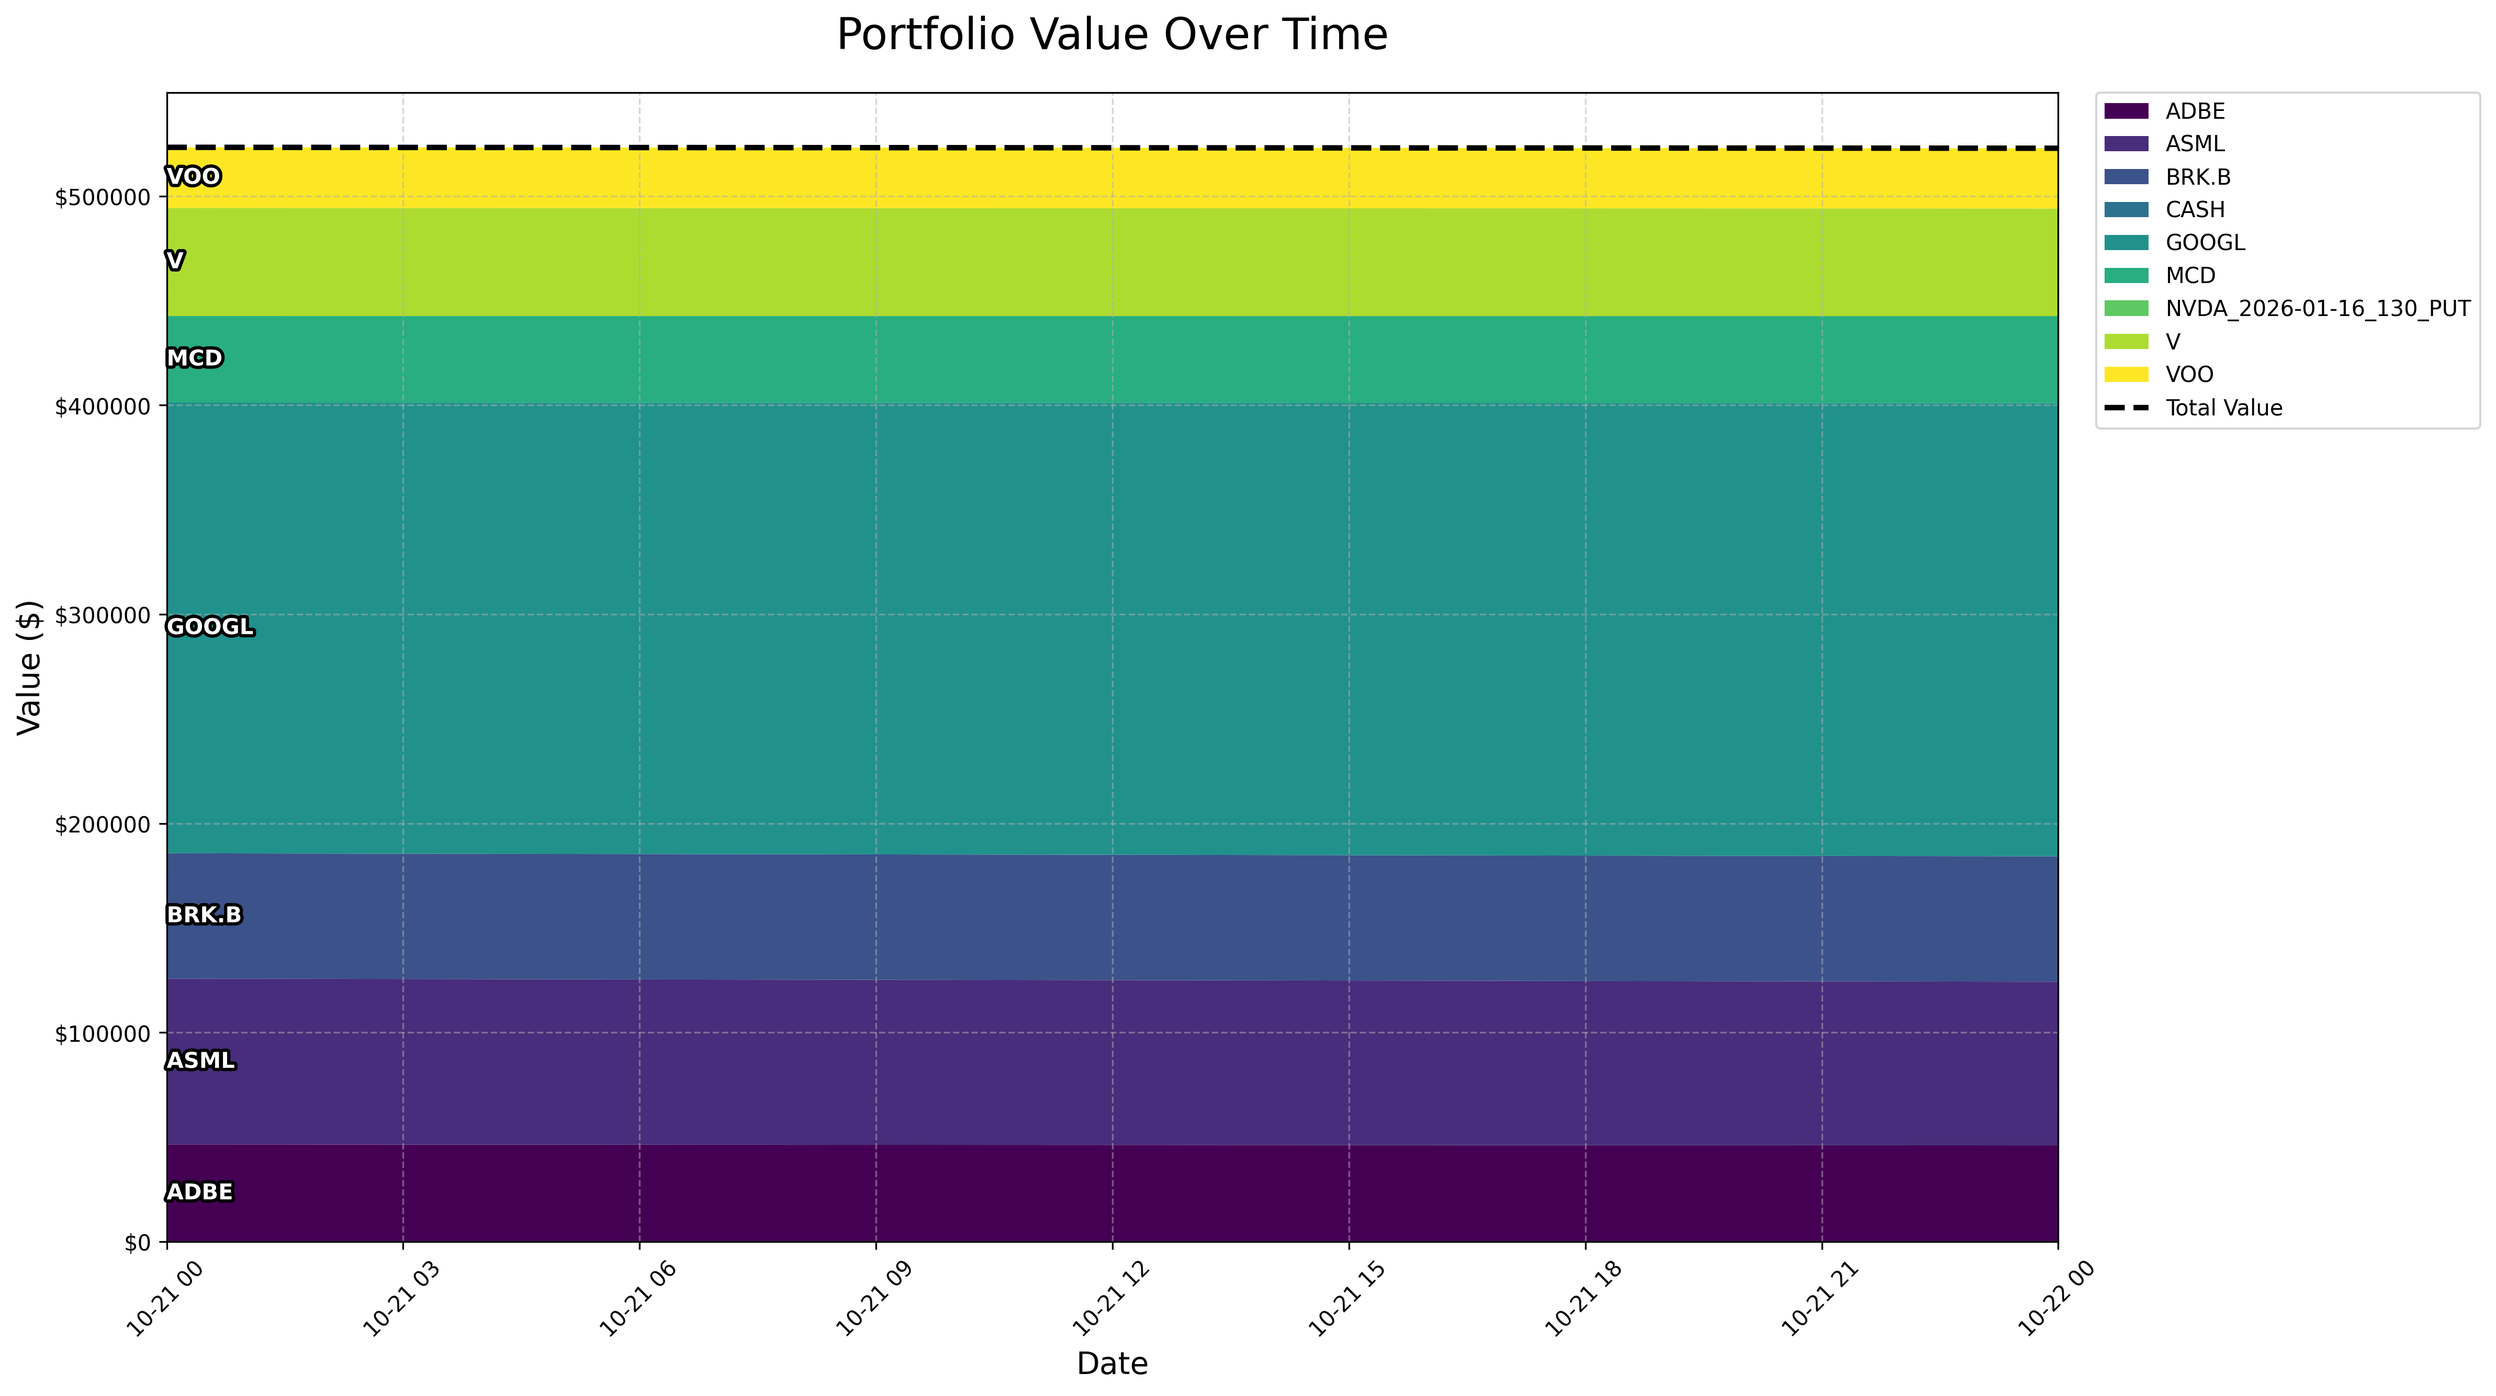
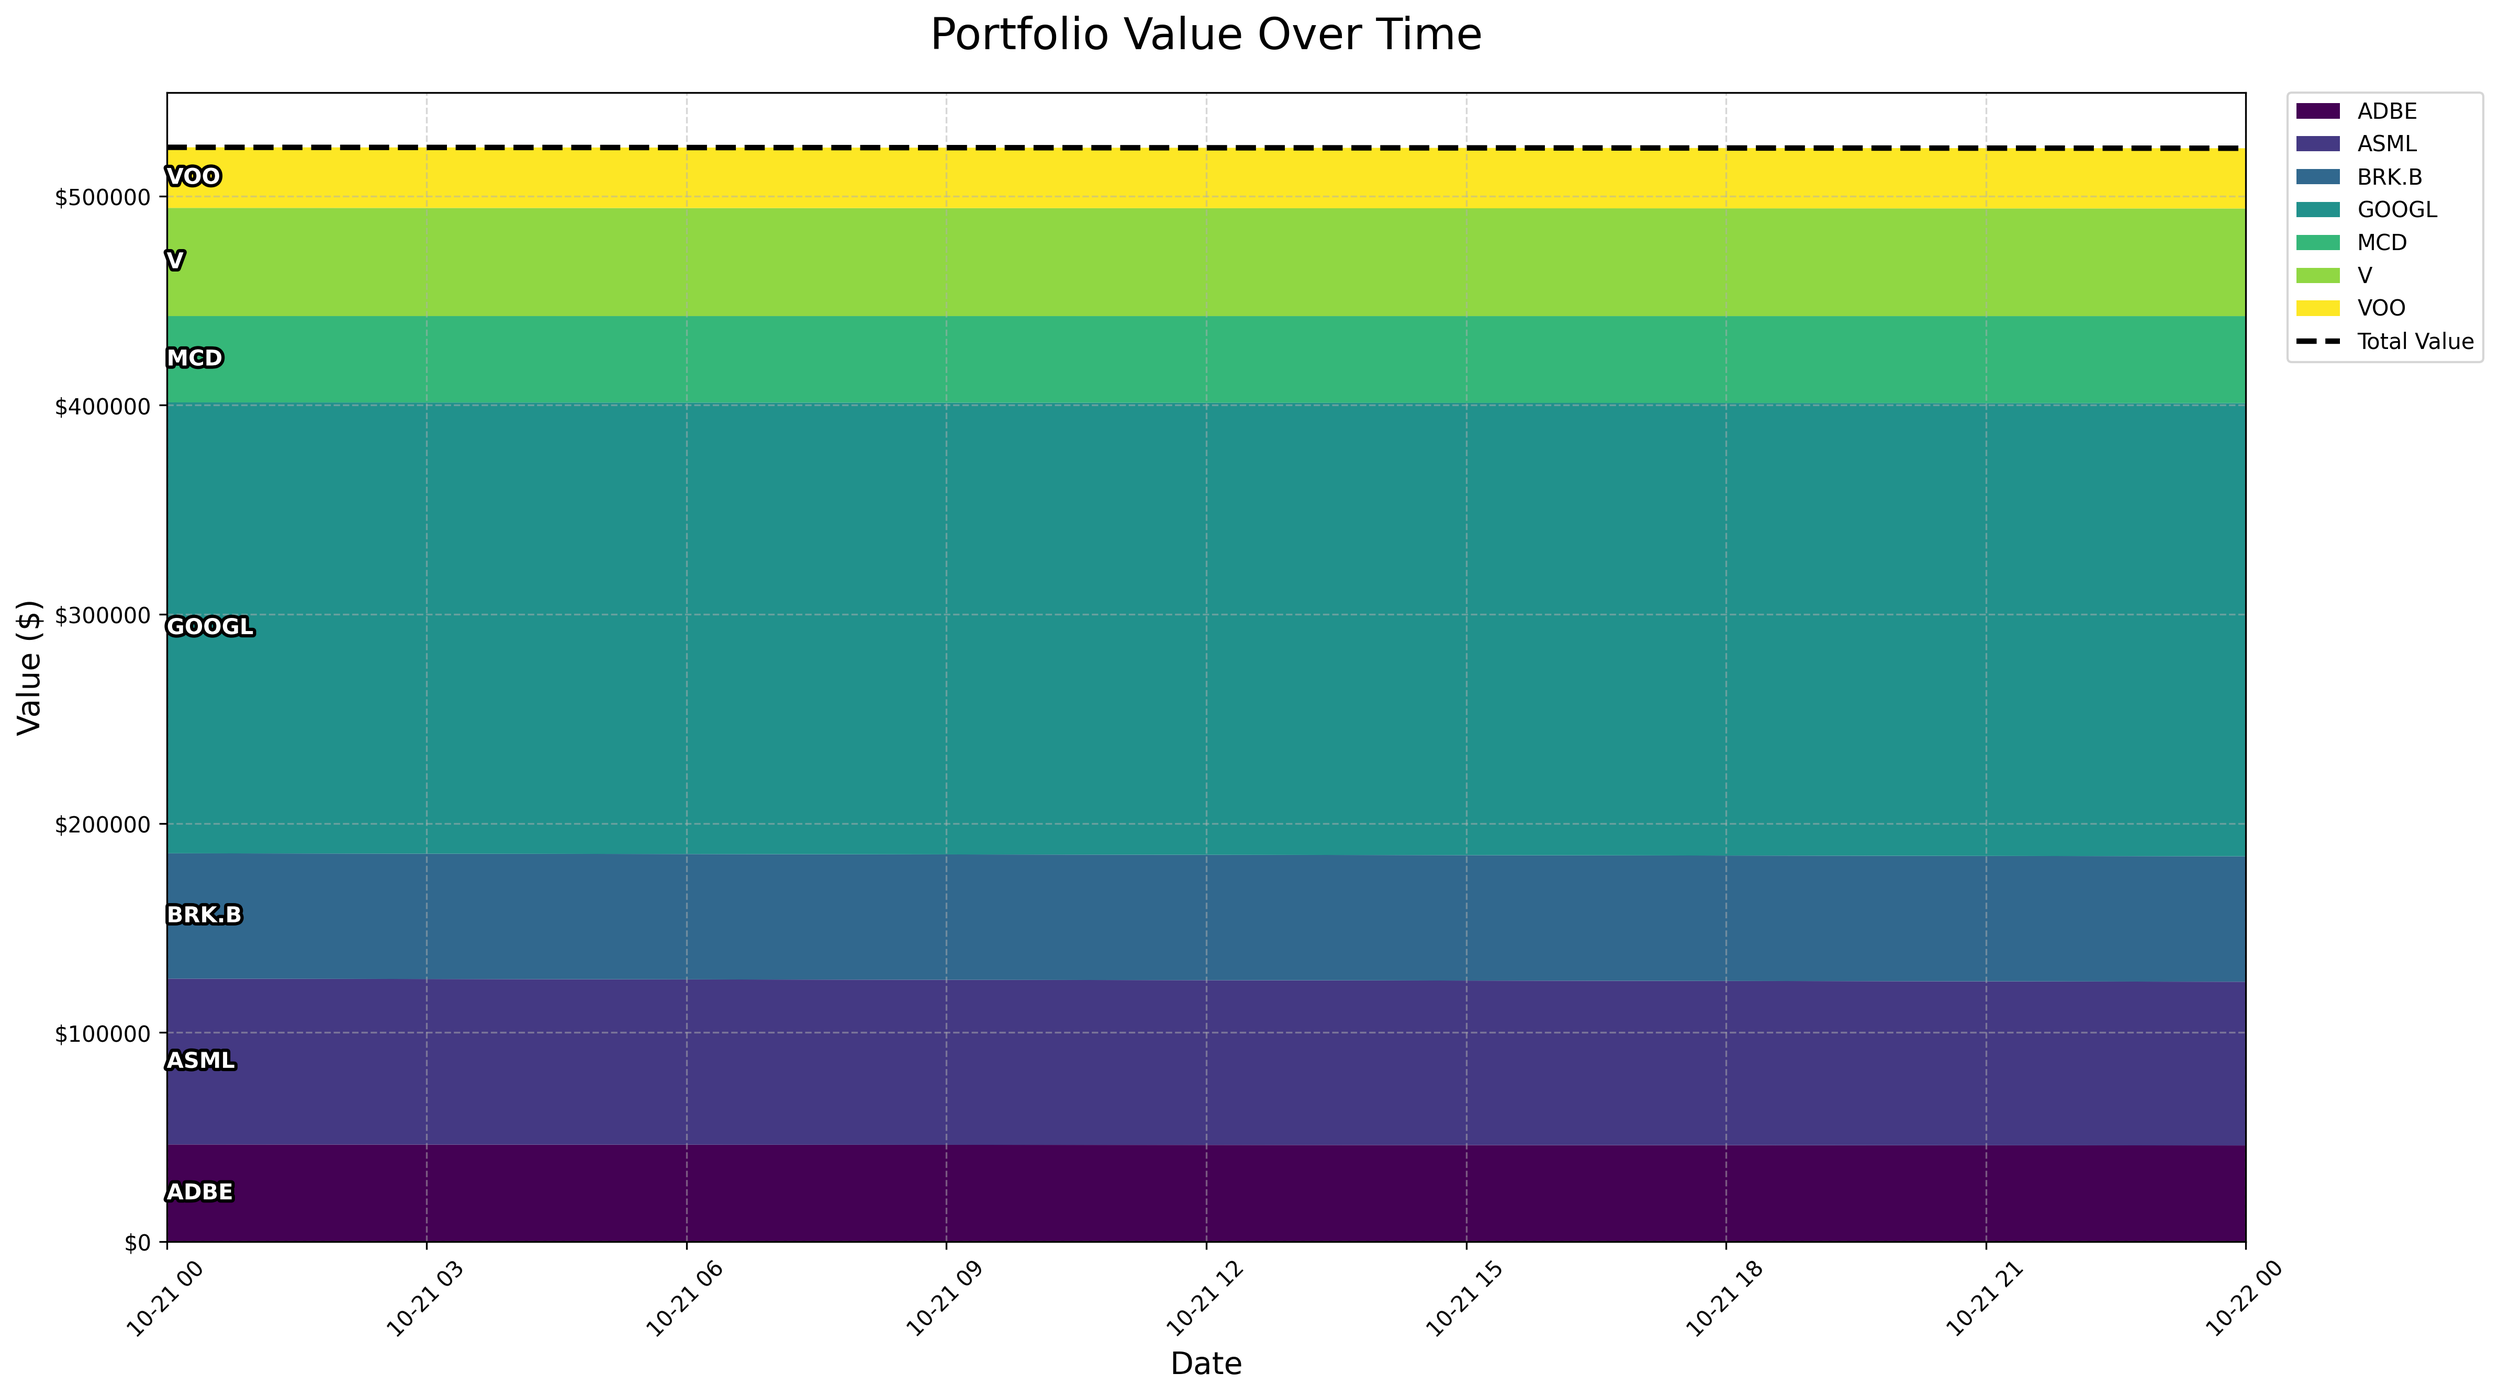
个股数据点tuple分隔符从,改成|，方便前端渲染

diff --git a/main.py b/main.py
@@ -198,7 +198,7 @@ def get_historical_stock_price(ticker, target_date):
     获取给定资产在特定日期的收盘价。
     该函数现在可以智能处理股票和期权两种代码。
     """
-    api_ticker = ticker
+    api_ticker = ticker.replace('.', '-')
 
     # --- 新增：智能识别并转换期权代码 ---
     if '_' in ticker:
@@ -337,17 +337,18 @@ def calculate_portfolio_value():
 
 
 # ==============================================================================
-# 4. 将历史数据保存到文件 (实现元组存储)
+# 4. 将历史数据保存到文件 (分隔符更新版)
 # ==============================================================================
 def save_history(date_to_save, value_to_save, asset_details):
     """
     将当日的投资组合详情追加或更新到历史记录CSV文件中。
-    - 每个资产单元格现在存储一个字符串形式的元组: '(总价值, 单价)'
+    - 每个资产单元格现在存储一个字符串形式的元组: '(总价值|单价)'
     """
     # 1. 准备当日的新数据行，将元组格式化为字符串
     new_row_data = {'total_value': f"{value_to_save:.2f}"}
     for asset, (val, price) in asset_details.items():
-        new_row_data[asset] = f"({val:.2f}, {price:.2f})"
+        # 改动点: 分隔符从 ',' 变为 '|'
+        new_row_data[asset] = f"({val:.2f}|{price:.2f})"
 
     new_row = pd.Series(new_row_data, name=date_to_save)
 
@@ -371,10 +372,12 @@ def save_history(date_to_save, value_to_save, asset_details):
     df = pd.concat([df, new_row.to_frame().T])
 
     # 5. 用代表0的元组字符串填充新出现的NaN值
-    df.fillna("(0.00, 0.00)", inplace=True)
+    # 改动点: 分隔符从 ',' 变为 '|'
+    df.fillna("(0.00|0.00)", inplace=True)
     # total_value列的NaN用 '0.00' 填充
     if 'total_value' in df.columns:
-        df['total_value'].replace("(0.00, 0.00)", "0.00", inplace=True)
+        # 改动点: 分隔符从 ',' 变为 '|'
+        df['total_value'].replace("(0.00|0.00)", "0.00", inplace=True)
 
     # 6. 重新排序列
     if 'total_value' in df.columns:
@@ -390,18 +393,19 @@ def save_history(date_to_save, value_to_save, asset_details):
 
 
 # ==============================================================================
-# 5. 绘制历史价值图表 (实现新数据解析和标签)
+# 5. 绘制历史价值图表 (分隔符更新版)
 # ==============================================================================
 def parse_value_from_cell(cell):
     """
     手动解析单元格的函数，不使用ast。
-    能处理 '(价值, 价格)' 格式和纯数字格式。
+    能处理 '(价值|价格)' 格式和纯数字格式。
     """
     try:
         # 检查是否为字符串以及是否符合元组格式
         if isinstance(cell, str) and cell.strip().startswith('(') and cell.strip().endswith(')'):
-            # 去除括号并按逗号分割
-            parts = cell.strip()[1:-1].split(',')
+            # 去除括号并按管道符分割
+            # 改动点: 分隔符从 ',' 变为 '|'
+            parts = cell.strip()[1:-1].split('|')
             if len(parts) == 2:
                 # 提取第一个部分（总价值）并转换为浮点数
                 return float(parts[0].strip())
@@ -542,21 +546,20 @@ def plot_pie_chart(asset_details, output_filename):
     finally:
         plt.close(fig)
 
+
 # ==============================================================================
-# (终极版) 6.1. 历史数据校验与修复模块
+# (终极版) 6.1. 历史数据校验与修复模块 (分隔符更新+清仓清理版)
 # ==============================================================================
 def validate_and_repair_history():
     """
-    校验并修复历史数据，精细化处理股票、现金和期权。
-    1. (股票) 修复价格丢失或格式错误的数据。
-    2. (现金) 强制统一为 '(金额, 1.00)' 格式。
-    3. (期权) 根据价值是否为零，分别进行标准化或价格补全。
+    校验并修复历史数据，并清理已售罄的资产列。
+    使用 '|' 作为分隔符。
     """
     if not os.path.exists(HISTORY_FILE):
         return
 
     print("\n" + "=" * 50)
-    print("开始执行历史数据完整性校验...")
+    print("开始执行历史数据完整性校验 (使用 '|' 分隔符)...")
 
     try:
         df = pd.read_csv(HISTORY_FILE, index_col='date', dtype=str)
@@ -567,21 +570,21 @@ def validate_and_repair_history():
     df_repaired = df.copy()
     changes_made = False
 
+    # --- 数据修复循环 (代码与之前相同，此处省略) ---
     for date, row in df.iterrows():
         for ticker, cell_value in row.items():
-            # 跳过总价值列和完全为空的单元格
             if ticker == 'total_value' or pd.isna(cell_value):
                 continue
-
+            # (此处省略现金、期权、股票的详细修复逻辑，因为它们没有变化)
+            # ...
             # -------------------- 1. 现金 (CASH) 处理逻辑 --------------------
             if ticker == 'CASH':
                 try:
-                    # ... (现金处理逻辑保持不变) ...
                     is_tuple_format = isinstance(cell_value, str) and cell_value.strip().startswith('(')
                     cash_amount = 0.0
                     needs_fixing = False
                     if is_tuple_format:
-                        parts = cell_value.strip()[1:-1].split(',')
+                        parts = cell_value.strip()[1:-1].split('|')
                         cash_amount = float(parts[0].strip())
                         price = float(parts[1].strip()) if len(parts) > 1 else 0.0
                         if price != 1.0: needs_fixing = True
@@ -589,7 +592,7 @@ def validate_and_repair_history():
                         cash_amount = float(cell_value)
                         needs_fixing = True
                     if needs_fixing:
-                        new_cash_value = f"({cash_amount:.2f}, 1.00)"
+                        new_cash_value = f"({cash_amount:.2f}|1.00)"
                         if df_repaired.at[date, ticker] != new_cash_value:
                             df_repaired.at[date, ticker] = new_cash_value
                             changes_made = True
@@ -598,64 +601,50 @@ def validate_and_repair_history():
                     print(f"  - 警告: 无法解析 CASH 单元格 on {date}: '{cell_value}'")
                 continue
 
-            # -------------------- 2. 期权 (Options) 处理逻辑 (全新升级) --------------------
+            # -------------------- 2. 期权 (Options) 处理逻辑 --------------------
             elif '_' in ticker:
-                total_val = 0.0
-                price = 0.0
+                total_val, price = 0.0, 0.0
                 try:
-                    # 先解析出价值和价格
                     if isinstance(cell_value, str) and cell_value.strip().startswith('('):
-                        parts = cell_value.strip()[1:-1].split(',')
+                        parts = cell_value.strip()[1:-1].split('|')
                         total_val = float(parts[0].strip())
                         price = float(parts[1].strip()) if len(parts) > 1 else 0.0
-                    else:  # 旧格式 (纯数字)
+                    else:
                         total_val = float(cell_value)
-                        price = 0.0
                 except (ValueError, IndexError):
                     print(f"  - 警告: 无法解析期权单元格 {ticker} on {date}: '{cell_value}'")
                     continue
 
-                # 规则 3: 如果价值为零，统一格式为 (0.00, 0.00)
                 if total_val == 0:
-                    correct_format = "(0.00, 0.00)"
-                    # 避免不必要的写入和打印
-                    if cell_value.strip() not in ["(0.00, 0.00)", "(0.0, 0.0)"]:
+                    correct_format = "(0.00|0.00)"
+                    if cell_value.strip() not in ["(0.00|0.00)", "(0.0|0.0)"]:
                         df_repaired.at[date, ticker] = correct_format
                         changes_made = True
                         print(f"  - 修正零值期权格式: {ticker} on {date}. 从 '{cell_value}' -> '{correct_format}'")
-
-                # 规则 1 & 2: 如果价值非零但价格缺失，则查询并补全
                 elif total_val > 0 and price <= 0:
                     print(f"  - 发现不一致期权数据: {ticker} on {date} [价值: {total_val:.2f}, 价格缺失]")
                     print(f"    -> 正在尝试获取 {date} 的历史价格...")
-
-                    # 复用股票的价格获取函数
                     historical_price = get_historical_stock_price(ticker, date)
                     time.sleep(1)
-
                     if historical_price is not None:
-                        new_cell_value = f"({total_val:.2f}, {historical_price:.2f})"
+                        new_cell_value = f"({total_val:.2f}|{historical_price:.2f})"
                         df_repaired.at[date, ticker] = new_cell_value
                         changes_made = True
                         print(f"    -> 成功修复期权: 价格更新为 ${historical_price:.2f}。新值为: {new_cell_value}")
                     else:
                         print(f"    -> 修复失败: 未能获取到期权 {ticker} 在 {date} 的历史价格。")
-
-                continue  # 处理完期权后跳到下一列
+                continue
 
             # -------------------- 3. 股票 (Stock) 处理逻辑 --------------------
             else:
-                # ... (股票处理逻辑保持不变) ...
-                total_val = 0.0
-                price = 0.0
+                total_val, price = 0.0, 0.0
                 try:
                     if isinstance(cell_value, str) and cell_value.strip().startswith('('):
-                        parts = cell_value.strip()[1:-1].split(',')
+                        parts = cell_value.strip()[1:-1].split('|')
                         total_val = float(parts[0].strip())
                         price = float(parts[1].strip()) if len(parts) > 1 else 0.0
                     else:
                         total_val = float(cell_value)
-                        price = 0.0
                 except (ValueError, IndexError):
                     continue
                 if total_val > 0 and price <= 0:
@@ -664,22 +653,43 @@ def validate_and_repair_history():
                     historical_price = get_historical_stock_price(ticker, date)
                     time.sleep(1)
                     if historical_price is not None:
-                        new_cell_value = f"({total_val:.2f}, {historical_price:.2f})"
+                        new_cell_value = f"({total_val:.2f}|{historical_price:.2f})"
                         df_repaired.at[date, ticker] = new_cell_value
                         changes_made = True
                         print(f"    -> 成功修复股票: 价格更新为 ${historical_price:.2f}。新值为: {new_cell_value}")
                     else:
                         print(f"    -> 修复失败: 未能获取到股票 {ticker} 在 {date} 的历史价格。")
 
+    # --- 改动点：新增清理已清仓资产列的逻辑 ---
+    columns_to_drop = []
+    asset_columns = [col for col in df_repaired.columns if col != 'total_value']
+
+    for col in asset_columns:
+        # 使用 parse_value_from_cell 函数检查该列所有值的总和是否为0
+        try:
+            # .apply() 在这里比 .map() 更安全，因为它作用于 Series
+            total_asset_value = df_repaired[col].apply(parse_value_from_cell).sum()
+            if total_asset_value == 0:
+                columns_to_drop.append(col)
+        except Exception:
+            # 如果解析某列时出错，为安全起见，不删除该列
+            continue
+
+    if columns_to_drop:
+        df_repaired.drop(columns=columns_to_drop, inplace=True)
+        changes_made = True  # 标记已更改，以确保文件被保存
+        print(f"\n信息: 检测到并清除了已售罄的资产列: {', '.join(columns_to_drop)}")
+    # --- 清理逻辑结束 ---
+
     if changes_made:
-        print("\n校验完成。发现并修复了数据，正在保存更新后的历史文件...")
+        print("\n校验完成。发现并修复/清理了数据，正在保存更新后的历史文件...")
         try:
             df_repaired.to_csv(HISTORY_FILE, index=True, index_label='date')
-            print(f"成功: 已将修复后的历史数据保存到 '{HISTORY_FILE}'")
+            print(f"成功: 已将更新后的历史数据保存到 '{HISTORY_FILE}'")
         except Exception as e:
-            print(f"错误: 保存修复后的历史文件失败: {e}")
+            print(f"错误: 保存更新后的历史文件失败: {e}")
     else:
-        print("\n校验完成。未发现需要修复的数据。")
+        print("\n校验完成。未发现需要修复或清理的数据。")
     print("=" * 50)
 
 
